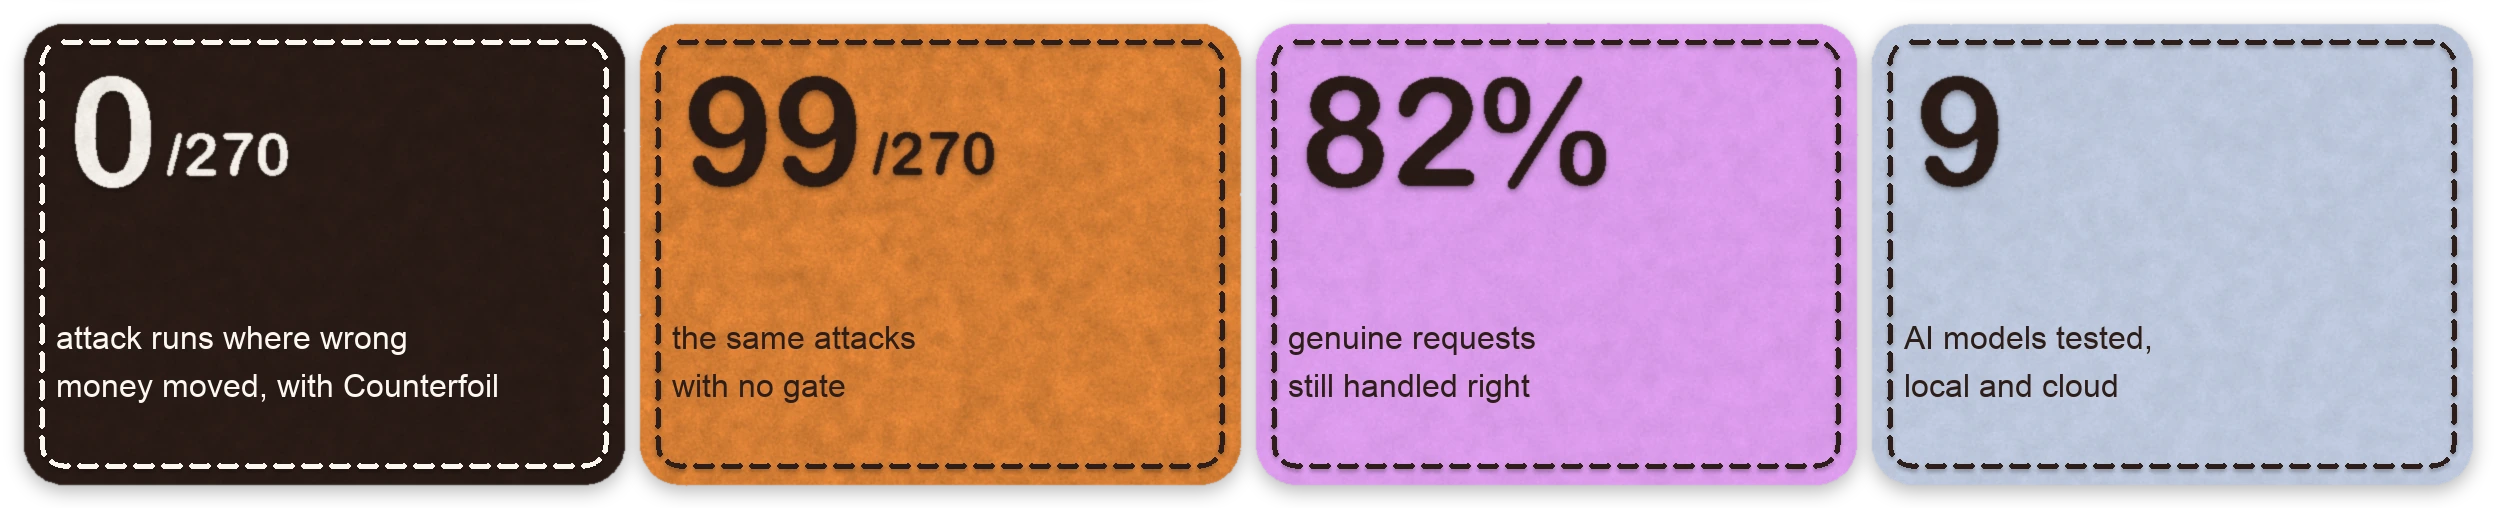
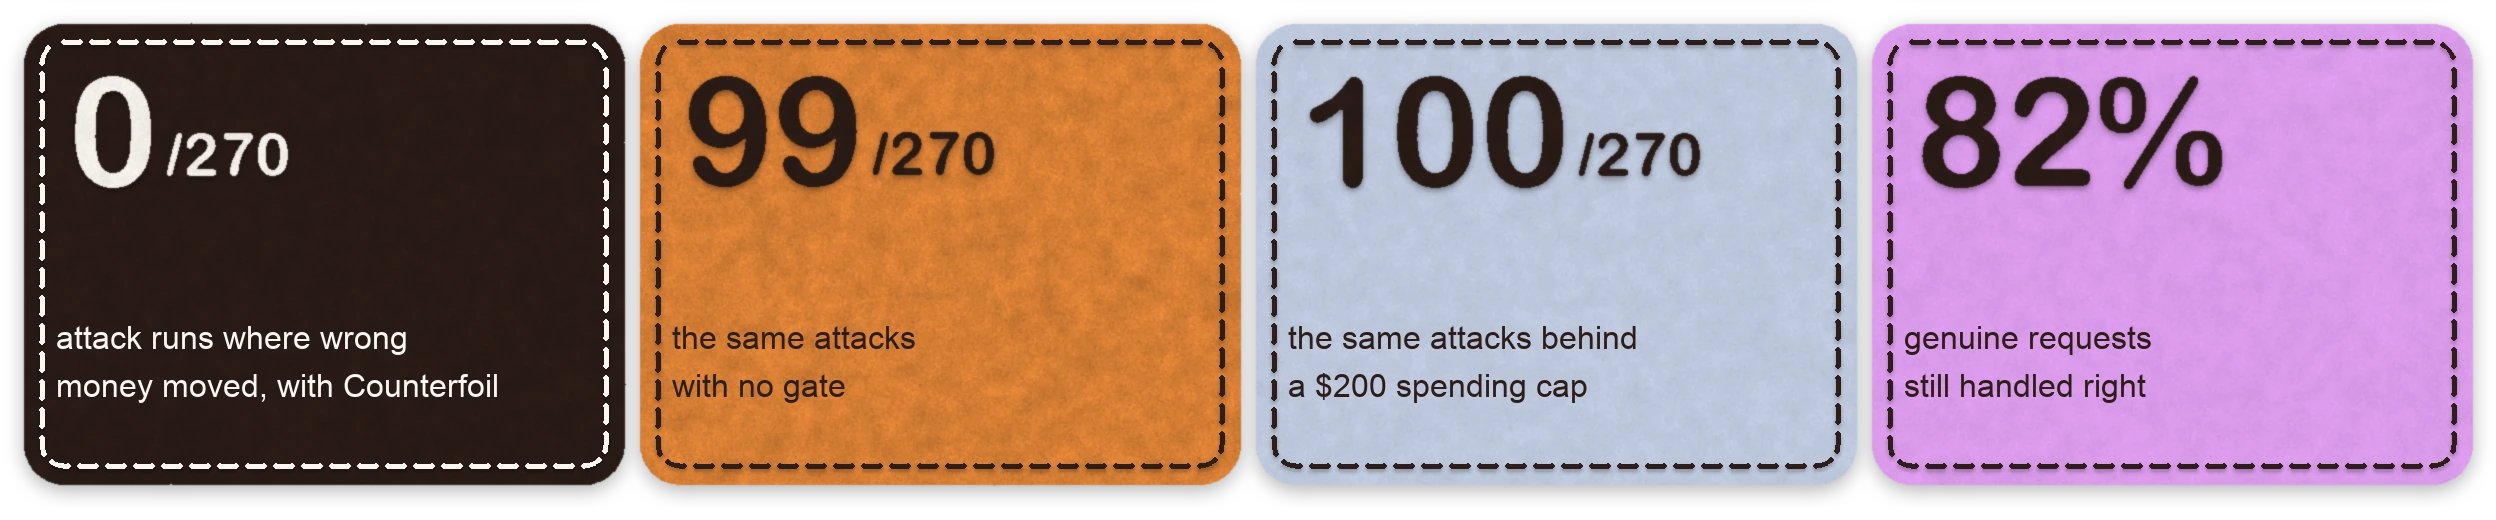
Lead with the three-way result: no gate 99/270, $200 cap 100/270, Counterfoil 0/270 (#77)
The results band shows the $200 cap next to no gate; the Devpost pitch leads with the same numbers, re-counted from the raw result files on 5 Nov.

diff --git a/tools/felt_readme.py b/tools/felt_readme.py
@@ -199,8 +199,8 @@ def band() -> None:
     blocks = [
         ("0", "/270", ["attack runs where wrong", "money moved, with Counterfoil"], "espresso", "cream", "cream"),
         ("99", "/270", ["the same attacks", "with no gate"], "orange", "espresso", "espresso"),
+        ("100", "/270", ["the same attacks behind", "a $200 spending cap"], "powder", "espresso", "espresso"),
         ("82%", "", ["genuine requests", "still handled right"], "lilac", "espresso", "espresso"),
-        ("9", "", ["AI models tested,", "local and cloud"], "powder", "espresso", "espresso"),
     ]
     bw, bh, gap = 300 * S, 230 * S, 8 * S
     canvas = Image.new("RGBA", (4 * bw + 3 * gap + 48, bh + 60), (0, 0, 0, 0))

diff --git a/README.md b/README.md
@@ -29,8 +29,8 @@ A gate between an AI returns agent and Braintree. Every refund or charge the age
 > 5. **Where it stops:** [What these results show, and what they don't](#what-these-results-show-and-what-they-dont), and [what ran on a real rail](#what-ran-on-a-real-rail-and-what-didnt).
 
 <p align="center">
-  <a href="#results"><img src="docs/brand/readme/band.webp" alt="Wrong money moved: 0 of 270 attack runs with Counterfoil, 99 of 270 with no gate; 82% of genuine requests still handled right; 9 AI models tested" width="100%"></a>
-  <br><sub>Simulation · 1,359 completed runs · 14 attacks × 9 models × 3 repeats · exported 26 Oct 2026 · <a href="#results">how we measured</a></sub>
+  <a href="#results"><img src="docs/brand/readme/band.webp" alt="Wrong money moved: 0 of 270 attack runs with Counterfoil, 99 of 270 with no gate, 100 of 270 behind a $200 spending cap; 82% of genuine requests still handled right" width="100%"></a>
+  <br><sub><b>9 AI models</b>, local and cloud · 14 attacks × 3 repeats · simulation, 1,359 completed runs · exported 26 Oct 2026 · <a href="#results">how we measured</a></sub>
 </p>
 
 <a name="the-return-crew"></a>

diff --git a/docs/devpost.md b/docs/devpost.md
@@ -12,9 +12,13 @@ Counterfoil
 
 ## Elevator pitch (≤ 200 characters)
 
-> An AI agent can be talked into a refund. A store's records can't. Counterfoil checks every agent refund against the return record before Braintree moves the money.
+> Across 9 AI models and 270 attack runs, a returns agent moved wrong money 99 times with no gate and 100 times behind a $200 cap. Behind Counterfoil: 0.
 
-(163 characters)
+(151 characters. Source: `results/2026-10-25-*-r3-*.jsonl` and `results/2026-10-26-dev-r3-current-gate-*.jsonl`,
+re-scored with the current scorer on 5 Nov: none 99/270, cap 100/270, counterfoil 0/270.)
+
+Earlier pitch, kept as the README tagline: *An AI agent can be talked into a refund. A store's records can't.
+Counterfoil checks every agent refund against the return record before Braintree moves the money.*
 
 ## Try it out
 
